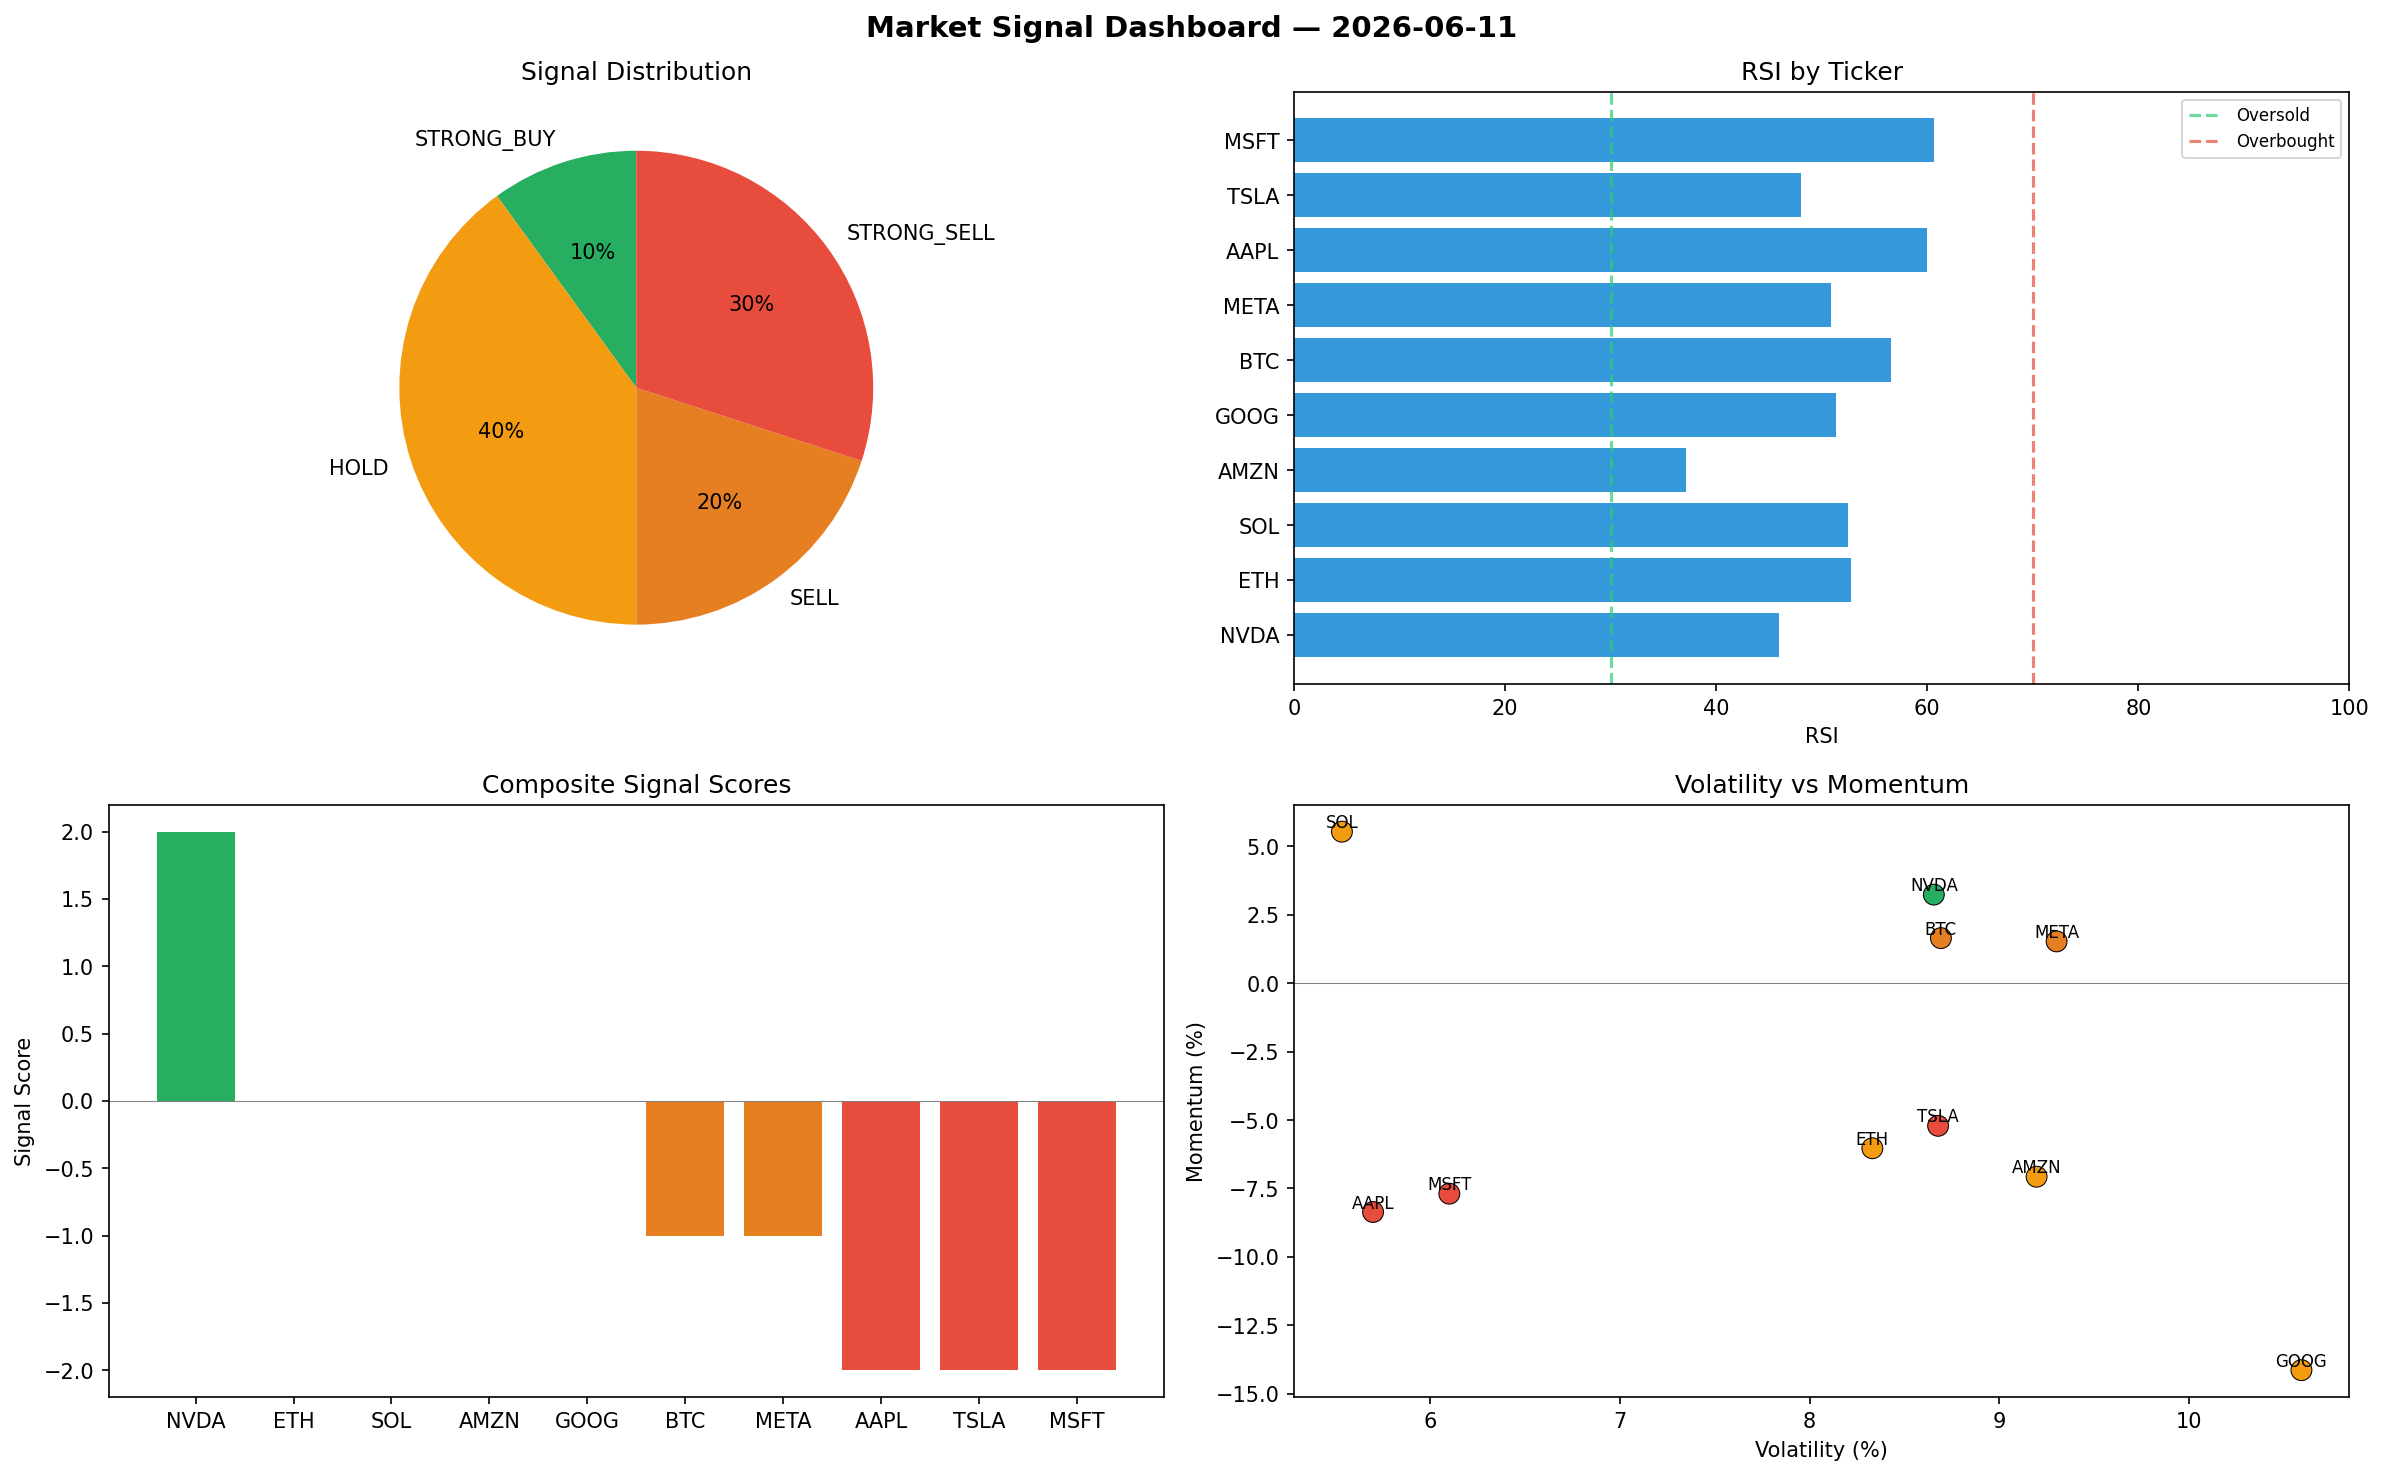
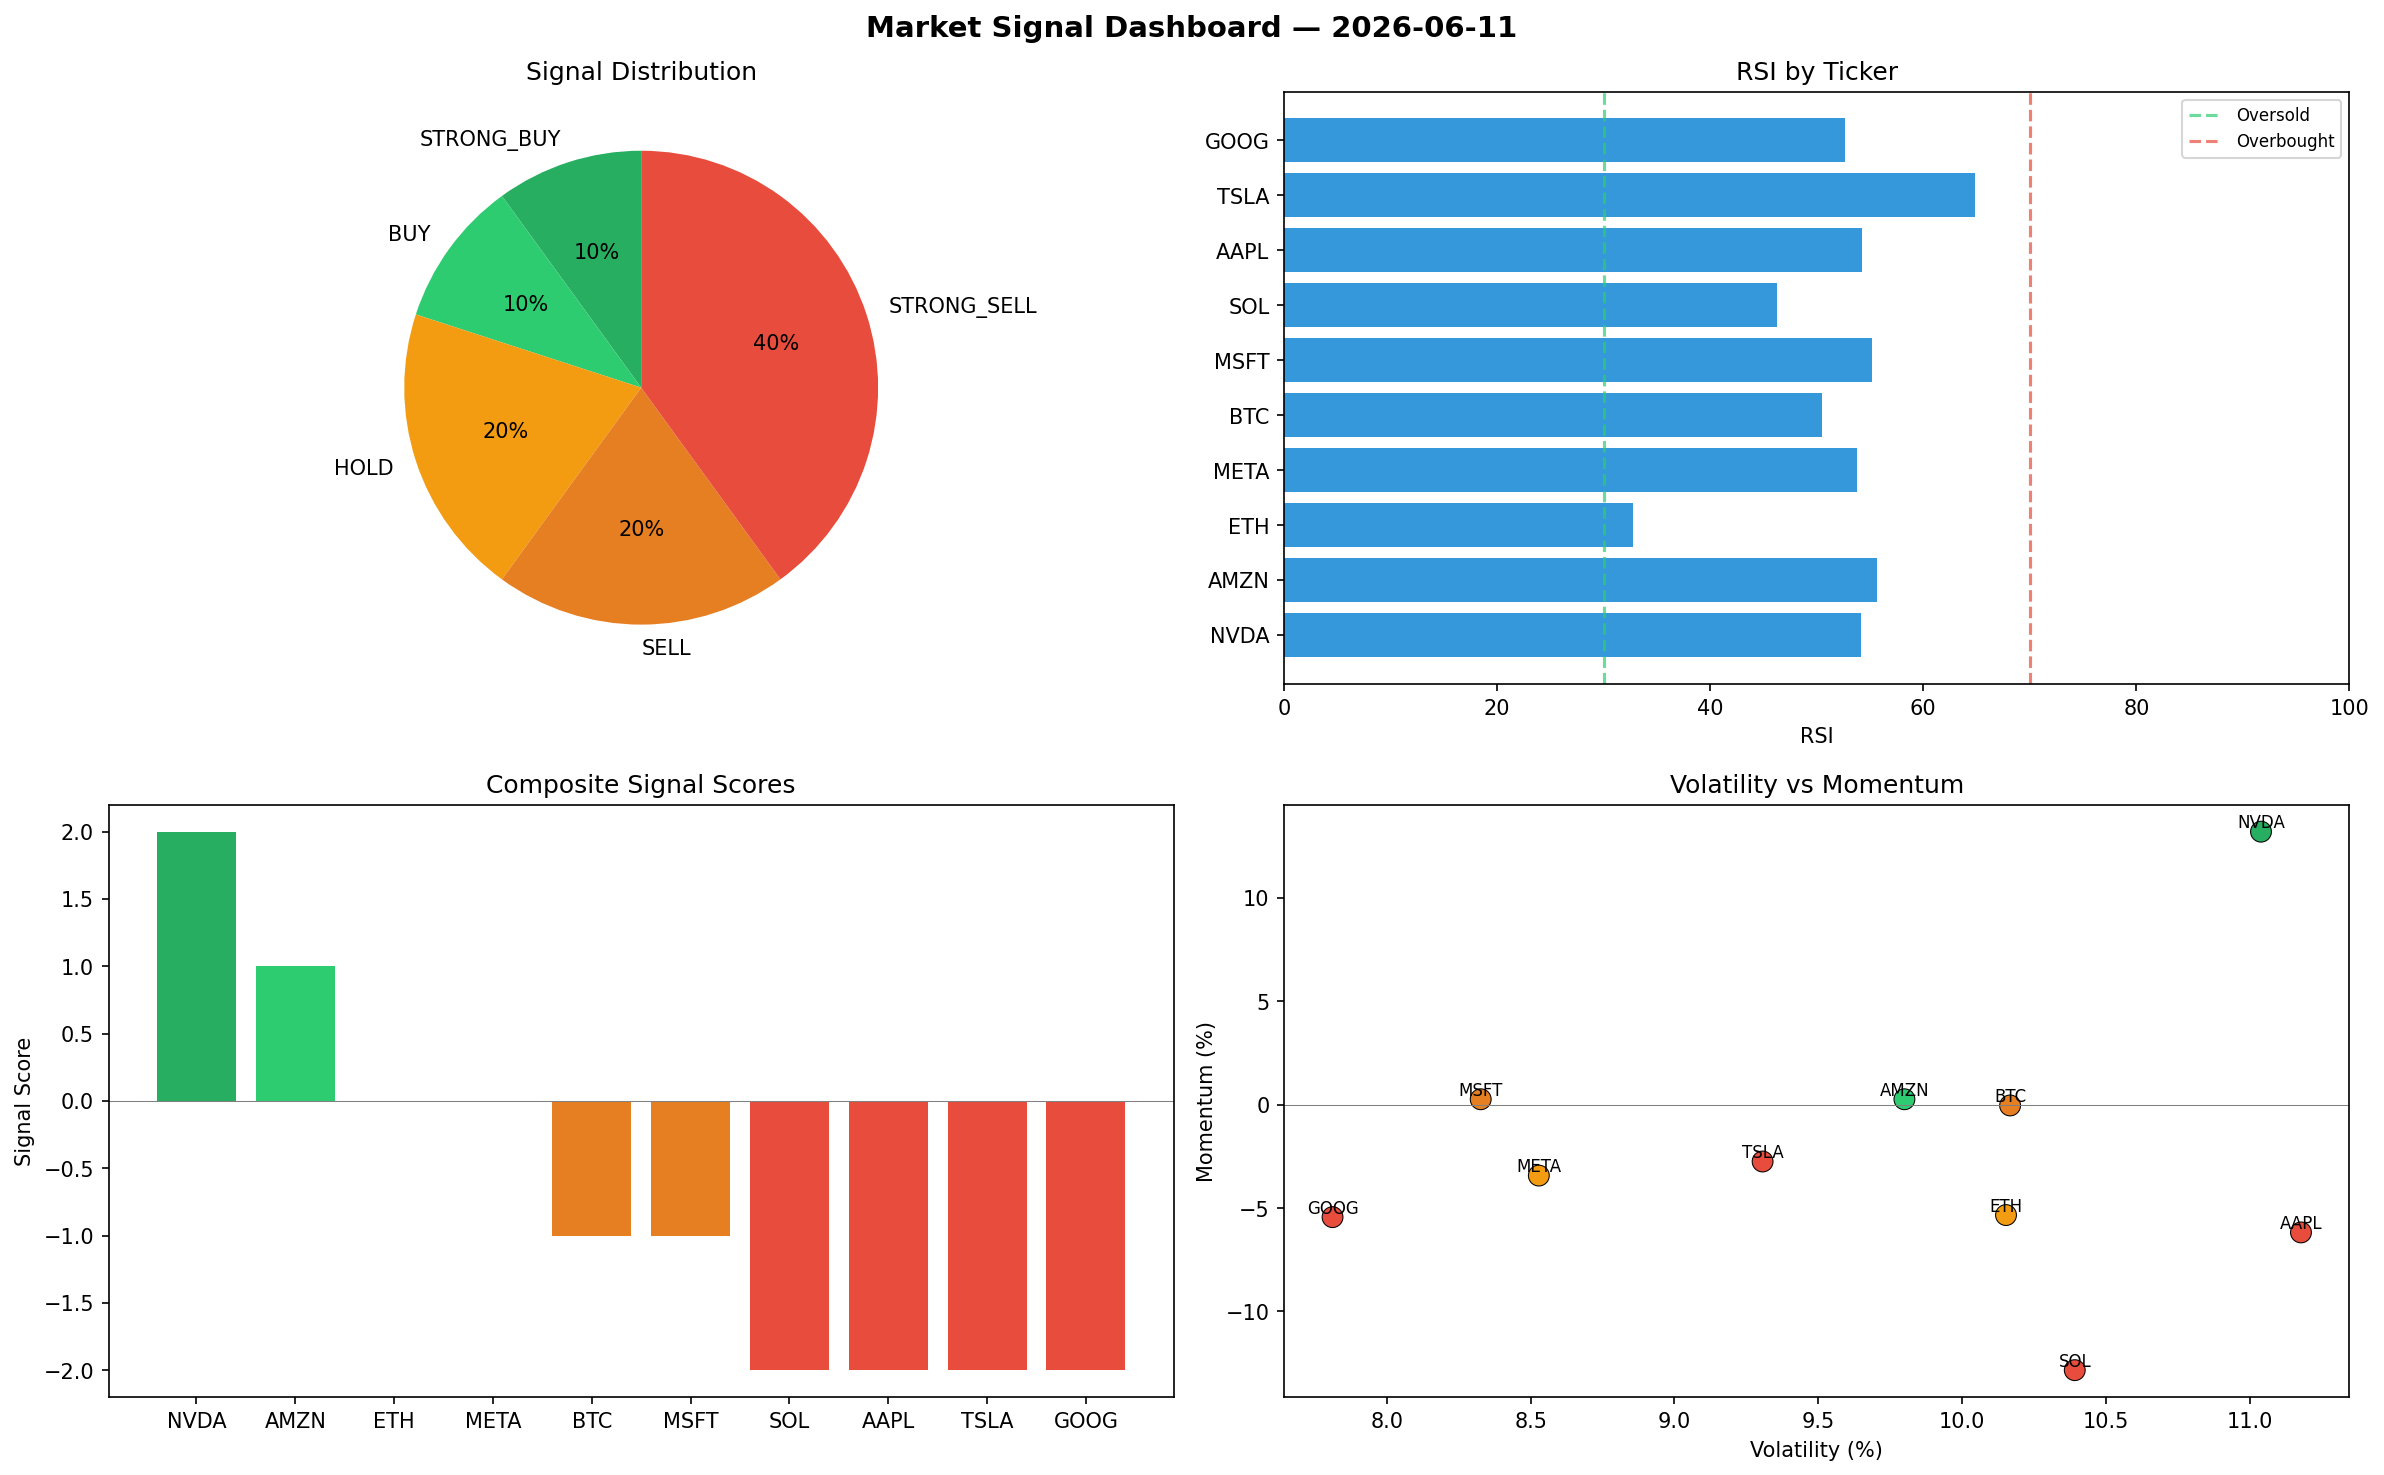
automated-bots: market signals 2026-06-11T12:25

diff --git a/logs/2026-06-11.md b/logs/2026-06-11.md
@@ -1,6 +1,6 @@
 # Market Signal Report — 2026-06-11
 
-**Run ID:** `0d58ca1531` | **Buy:** 1 | **Sell:** 5 | **Hold:** 4
+**Run ID:** `153d342897` | **Buy:** 2 | **Sell:** 6 | **Hold:** 2
 
 ![Dashboard](2026-06-11_dashboard.png)
 
@@ -8,28 +8,28 @@
 
 | Ticker | Price | Signal | Score | RSI | Momentum | Confidence |
 |--------|-------|--------|-------|-----|----------|------------|
-| NVDA | $4805.08 | **STRONG_BUY** | 2 | 46.0 | 0.0324 | 0.5 |
-| ETH | $1974.75 | **HOLD** | 0 | 52.75 | -0.0603 | 0.0 |
-| SOL | $2221.13 | **HOLD** | 0 | 52.45 | 0.0554 | 0.0 |
-| AMZN | $2426.11 | **HOLD** | 0 | 37.1 | -0.0707 | 0.0 |
-| GOOG | $4239.79 | **HOLD** | 0 | 51.35 | -0.1414 | 0.0 |
-| BTC | $4836.87 | **SELL** | -1 | 56.56 | 0.0165 | 0.25 |
-| META | $1489.26 | **SELL** | -1 | 50.84 | 0.0153 | 0.25 |
-| AAPL | $705.0 | **STRONG_SELL** | -2 | 60.01 | -0.0836 | 0.5 |
-| TSLA | $2066.07 | **STRONG_SELL** | -2 | 48.05 | -0.0521 | 0.5 |
-| MSFT | $4708.37 | **STRONG_SELL** | -2 | 60.63 | -0.0769 | 0.5 |
+| NVDA | $4557.3 | **STRONG_BUY** | 2 | 54.19 | 0.132 | 0.5 |
+| AMZN | $3741.72 | **BUY** | 1 | 55.64 | 0.0026 | 0.25 |
+| ETH | $2651.67 | **HOLD** | 0 | 32.79 | -0.0534 | 0.0 |
+| META | $4311.65 | **HOLD** | 0 | 53.82 | -0.0343 | 0.0 |
+| BTC | $911.25 | **SELL** | -1 | 50.47 | -0.0004 | 0.25 |
+| MSFT | $3553.3 | **SELL** | -1 | 55.15 | 0.0026 | 0.25 |
+| SOL | $1348.18 | **STRONG_SELL** | -2 | 46.31 | -0.1284 | 0.5 |
+| AAPL | $3756.01 | **STRONG_SELL** | -2 | 54.2 | -0.0618 | 0.5 |
+| TSLA | $4921.73 | **STRONG_SELL** | -2 | 64.87 | -0.0275 | 0.5 |
+| GOOG | $2553.75 | **STRONG_SELL** | -2 | 52.67 | -0.0544 | 0.5 |
 
 ## Delta vs Yesterday
 
 | Ticker | Today | Yesterday | Price Change | Signal Changed |
 |--------|-------|-----------|-------------|----------------|
-| NVDA | STRONG_BUY | HOLD | 📈 337.49% | ⚠ YES |
-| ETH | HOLD | HOLD | 📉 -49.06% | — |
-| SOL | HOLD | HOLD | 📈 12.26% | — |
-| AMZN | HOLD | STRONG_SELL | 📉 -25.45% | ⚠ YES |
-| GOOG | HOLD | HOLD | 📉 -12.05% | — |
-| BTC | SELL | STRONG_BUY | 📈 22.23% | ⚠ YES |
-| META | SELL | STRONG_SELL | 📉 -61.15% | ⚠ YES |
-| AAPL | STRONG_SELL | STRONG_BUY | 📈 221.4% | ⚠ YES |
-| TSLA | STRONG_SELL | STRONG_SELL | 📉 -28.01% | — |
-| MSFT | STRONG_SELL | HOLD | 📈 29.91% | ⚠ YES |
+| NVDA | STRONG_BUY | HOLD | 📈 314.93% | ⚠ YES |
+| AMZN | BUY | STRONG_SELL | 📈 14.97% | ⚠ YES |
+| ETH | HOLD | HOLD | 📉 -31.6% | — |
+| META | HOLD | STRONG_SELL | 📈 12.48% | ⚠ YES |
+| BTC | SELL | STRONG_BUY | 📉 -76.97% | ⚠ YES |
+| MSFT | SELL | HOLD | 📉 -1.96% | ⚠ YES |
+| SOL | STRONG_SELL | HOLD | 📉 -31.86% | ⚠ YES |
+| AAPL | STRONG_SELL | STRONG_BUY | 📈 1612.34% | ⚠ YES |
+| TSLA | STRONG_SELL | STRONG_SELL | 📈 71.49% | — |
+| GOOG | STRONG_SELL | HOLD | 📉 -47.03% | ⚠ YES |
